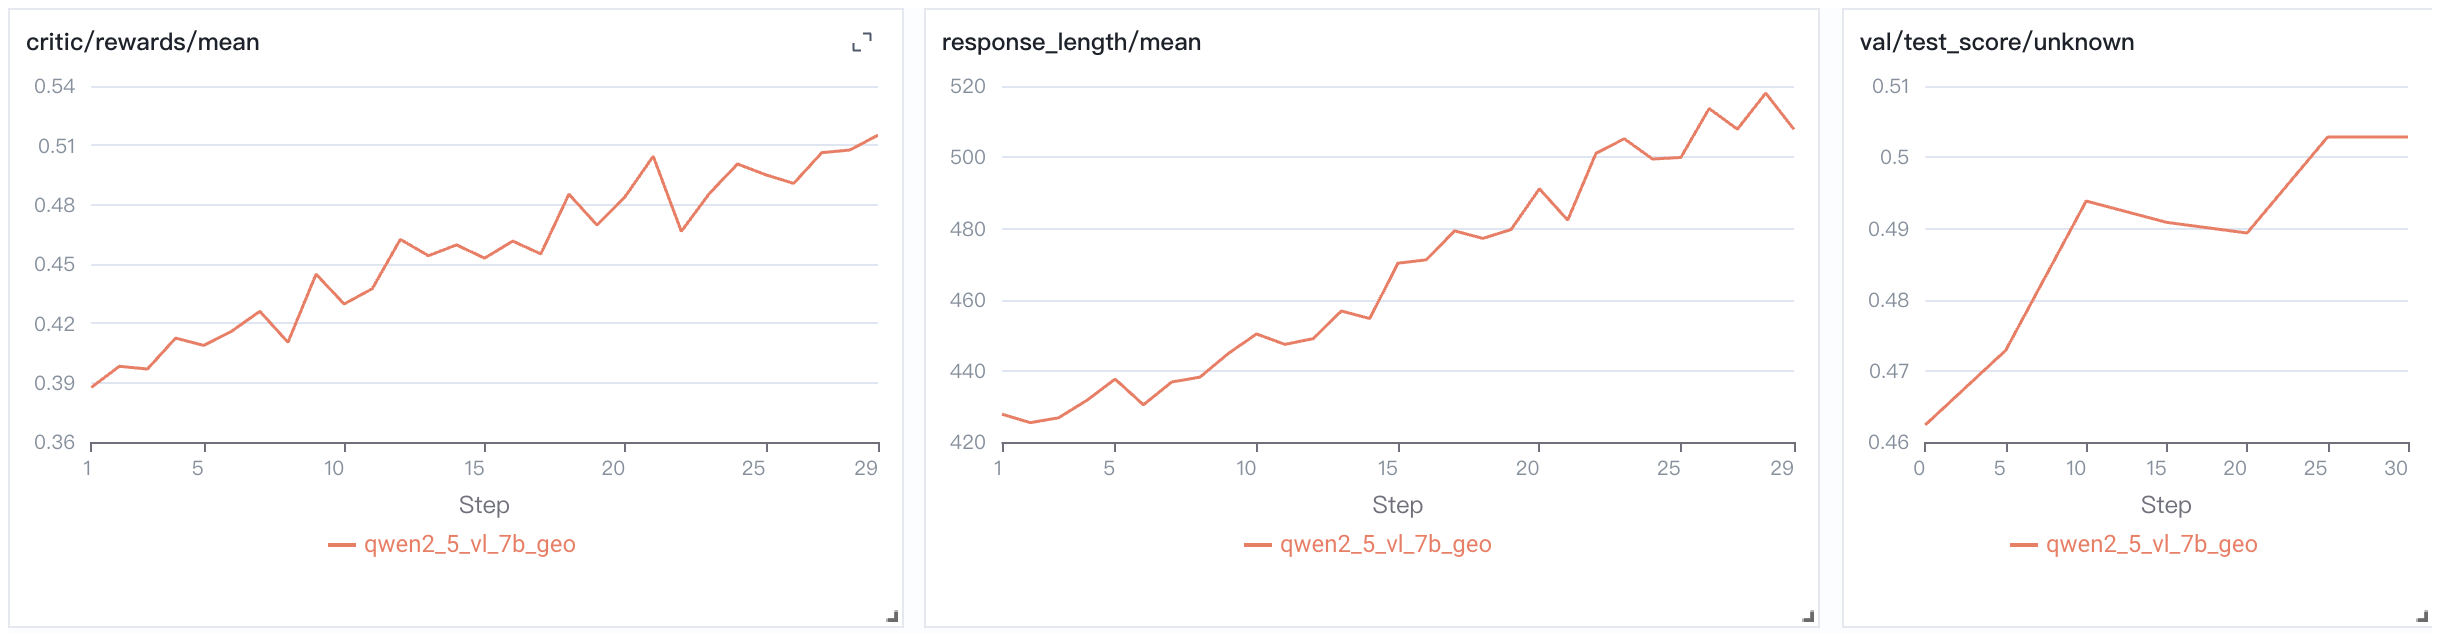
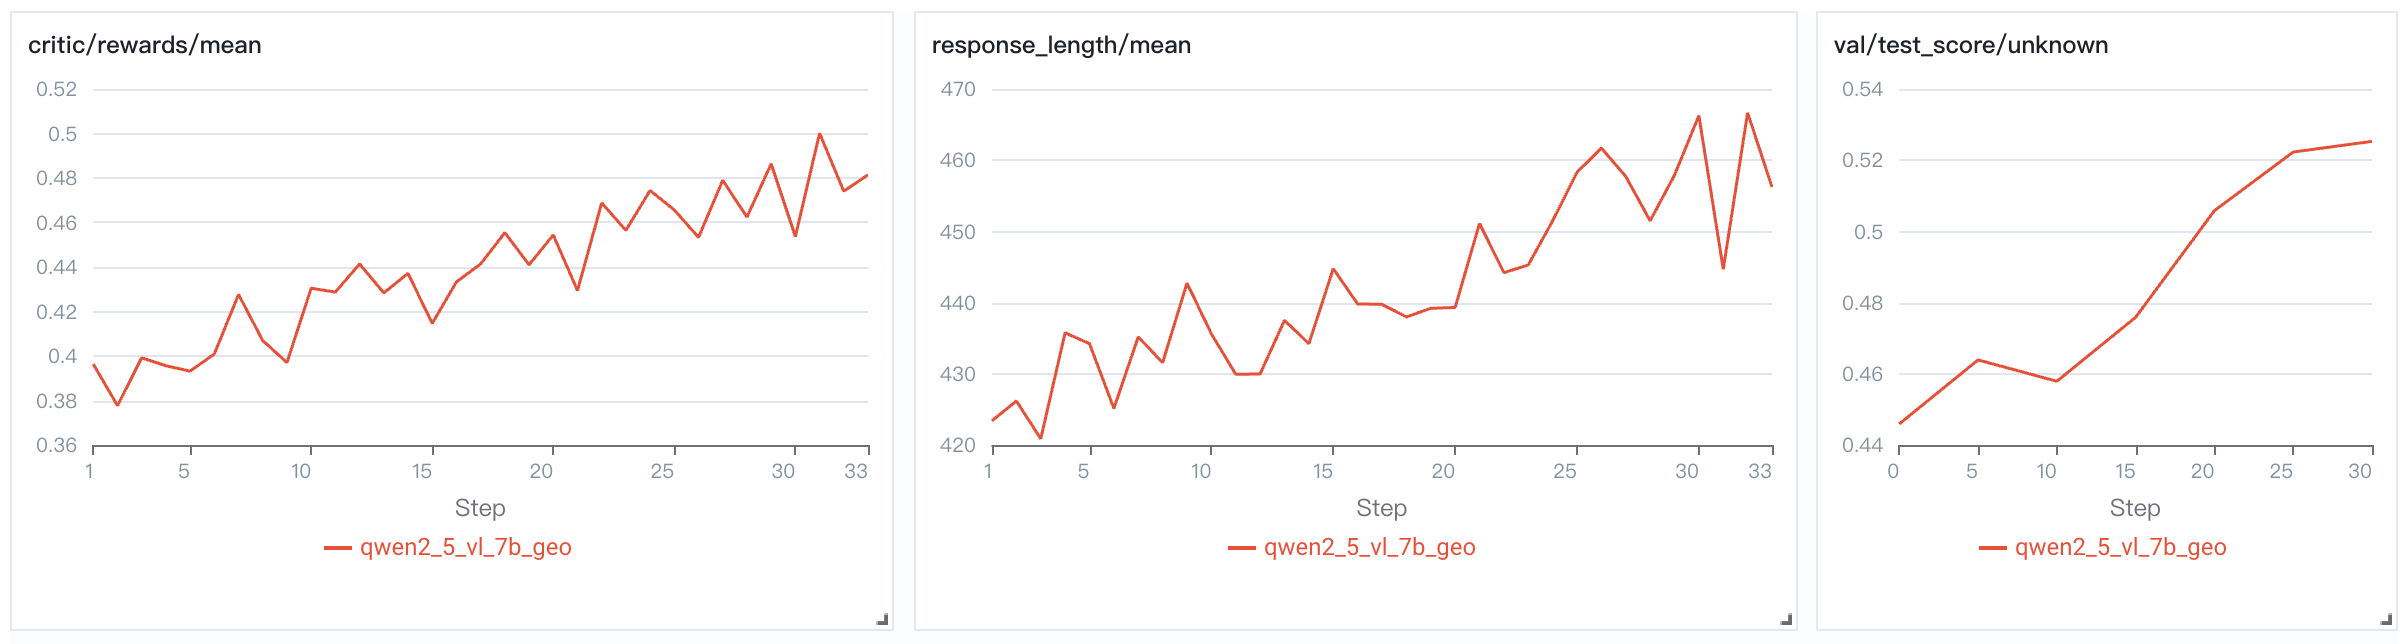
fix perf

diff --git a/verl/workers/actor/dp_actor.py b/verl/workers/actor/dp_actor.py
@@ -52,13 +52,14 @@ class DataParallelPPOActor(BasePPOActor):
         self.actor_optimizer = actor_optimizer
         self.compute_entropy_from_logits = torch.compile(verl_F.entropy_from_logits, dynamic=True)
 
+    @torch.autocast(device_type="cuda", dtype=torch.bfloat16)
     def _forward_micro_batch(
         self, micro_batch: Dict[str, torch.Tensor], temperature: float
-    ) -> Tuple[torch.Tensor, torch.Tensor]:
+    ) -> Tuple[torch.Tensor, Optional[torch.Tensor]]:
         """
         Returns:
-            entropy: # (bs, response_len)
             log_probs: # (bs, response_len)
+            entropy: # (bs, response_len)
         """
         input_ids = micro_batch["input_ids"]
         attention_mask = micro_batch["attention_mask"]
@@ -88,9 +89,12 @@ class DataParallelPPOActor(BasePPOActor):
             logits.div_(temperature)
             logits = logits[:, -response_length - 1 : -1, :]  # (bsz, response_length, vocab_size)
             log_probs = logprobs_from_logits(logits, responses)  # (bsz, response_length)
-            entropy = verl_F.entropy_from_logits(logits)  # (bsz, response_length)
+            if self.config.entropy_coeff > 1e-6:
+                entropy = self.compute_entropy_from_logits(logits)  # (bsz, response_length)
+            else:
+                entropy = None
 
-        return entropy, log_probs
+        return log_probs, entropy
 
     def _optimizer_step(self) -> torch.Tensor:
         if isinstance(self.actor_module, FSDP):
@@ -136,7 +140,7 @@ class DataParallelPPOActor(BasePPOActor):
         for micro_batch in tqdm(micro_batches, desc="Compute log probs", disable=(self.rank != 0)):
             micro_batch.to("cuda")
             model_inputs = {**micro_batch.batch, **micro_batch.non_tensor_batch}
-            _, log_probs = self._forward_micro_batch(model_inputs, temperature=temperature)
+            log_probs, _ = self._forward_micro_batch(model_inputs, temperature=temperature)
             log_probs_lst.append(log_probs)
 
         log_probs = torch.concat(log_probs_lst, dim=0)
@@ -179,24 +183,24 @@ class DataParallelPPOActor(BasePPOActor):
                 old_log_prob = model_inputs["old_log_probs"]
                 advantages = model_inputs["advantages"]
 
-                clip_ratio = self.config.clip_ratio
-                entropy_coeff = self.config.entropy_coeff
-
                 # all return: (bsz, response_length)
-                entropy, log_prob = self._forward_micro_batch(model_inputs, temperature=temperature)
+                log_prob, entropy = self._forward_micro_batch(model_inputs, temperature=temperature)
 
                 pg_loss, pg_clipfrac, ppo_kl = core_algos.compute_policy_loss(
                     old_log_prob=old_log_prob,
                     log_prob=log_prob,
                     advantages=advantages,
                     eos_mask=response_mask,
-                    cliprange=clip_ratio,
+                    cliprange=self.config.clip_ratio,
                 )
                 # compute entropy loss from entropy
-                entropy_loss = verl_F.masked_mean(entropy, response_mask)
+                if self.config.entropy_coeff > 1e-6:
+                    entropy_loss = verl_F.masked_mean(entropy, response_mask)
+                else:
+                    entropy_loss = torch.tensor(0.0)
 
                 # compute policy loss
-                policy_loss = pg_loss - entropy_loss * entropy_coeff
+                policy_loss = pg_loss - entropy_loss * self.config.entropy_coeff
 
                 if self.config.use_kl_loss:
                     ref_log_prob = model_inputs["ref_log_prob"]
@@ -215,10 +219,10 @@ class DataParallelPPOActor(BasePPOActor):
                 loss.backward()
 
                 batch_metrics = {
-                    "actor/entropy_loss": entropy_loss.detach().item(),
                     "actor/pg_loss": pg_loss.detach().item(),
                     "actor/pg_clipfrac": pg_clipfrac.detach().item(),
                     "actor/ppo_kl": ppo_kl.detach().item(),
+                    "actor/entropy_loss": entropy_loss.detach().item(),
                 }
                 append_to_dict(metrics, batch_metrics)
 

diff --git a/verl/utils/torch_functional.py b/verl/utils/torch_functional.py
@@ -34,15 +34,15 @@ except ImportError:
     FLAH_ATTN_CROSS_ENTROPY_LOSS_AVAILABLE = False
 
 
-def logprobs_from_logits(logits, labels):
+def logprobs_from_logits(logits: torch.Tensor, labels: torch.Tensor) -> torch.Tensor:
     """
     See: https://github.com/pytorch/pytorch/issues/563#issuecomment-330103591
     """
     if FLAH_ATTN_CROSS_ENTROPY_LOSS_AVAILABLE:
         batch_dim = logits.shape[:-1]
-        last_dim = logits.shape[-1]
-        logits = logits.reshape(-1, last_dim)
-        labels = labels.reshape(-1)
+        vocab_size = logits.shape[-1]
+        logits = logits.contiguous().view(-1, vocab_size)
+        labels = labels.contiguous().view(-1)
         output = logprobs_from_logits_flash_attn(logits, labels)
         output = output.view(*batch_dim)
     else:
@@ -91,7 +91,7 @@ def clip_by_value(x, tensor_min, tensor_max):
 
 def entropy_from_logits(logits: torch.Tensor):
     """Calculate entropy from logits."""
-    pd = torch.nn.functional.softmax(logits, dim=-1)
+    pd = F.softmax(logits.float(), dim=-1)  # should compute in fp32
     entropy = torch.logsumexp(logits, dim=-1) - torch.sum(pd * logits, dim=-1)
     return entropy
 

diff --git a/verl/workers/critic/dp_critic.py b/verl/workers/critic/dp_critic.py
@@ -43,6 +43,7 @@ class DataParallelPPOCritic(BasePPOCritic):
         self.critic_module = critic_module
         self.critic_optimizer = critic_optimizer
 
+    @torch.autocast(device_type="cuda", dtype=torch.bfloat16)
     def _forward_micro_batch(self, micro_batch: Dict[str, torch.Tensor]) -> torch.Tensor:
         input_ids = micro_batch["input_ids"]
         attention_mask = micro_batch["attention_mask"]

diff --git a/verl/workers/actor/config.py b/verl/workers/actor/config.py
@@ -69,7 +69,7 @@ class ActorConfig:
     micro_batch_size_per_device_for_experience: int = field(default=-1, init=False)
     max_grad_norm: float = 1.0
     clip_ratio: float = 0.2
-    entropy_coeff: float = 1e-3
+    entropy_coeff: float = 0.0
     use_kl_loss: bool = True
     kl_loss_coef: float = 1e-3
     kl_loss_type: str = "low_var_kl"
